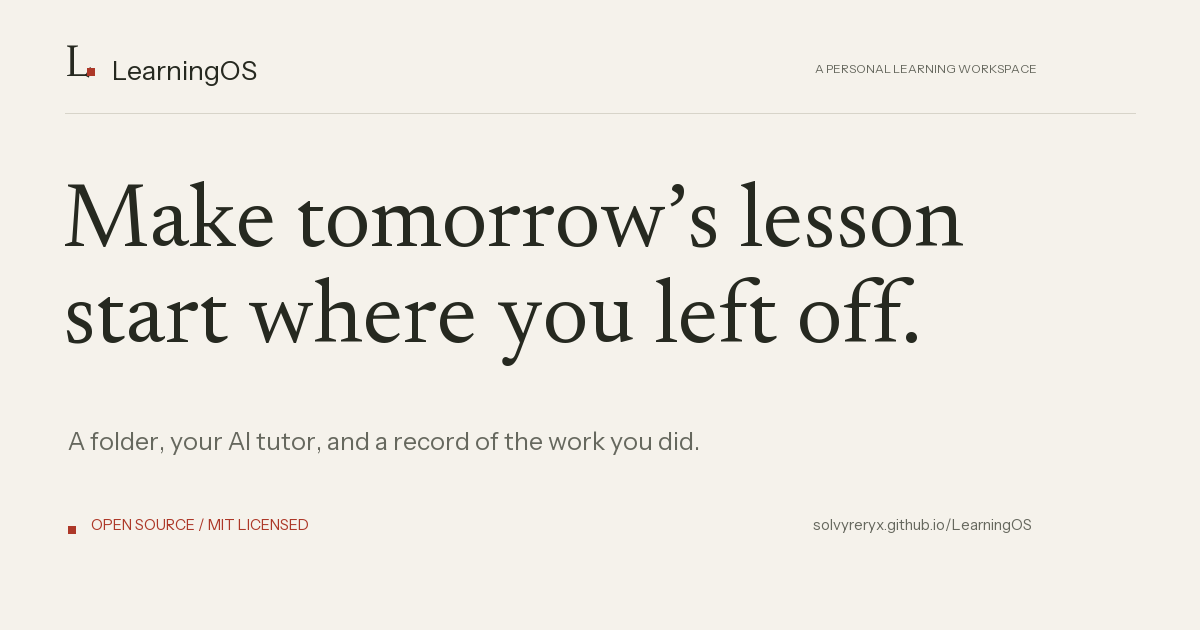
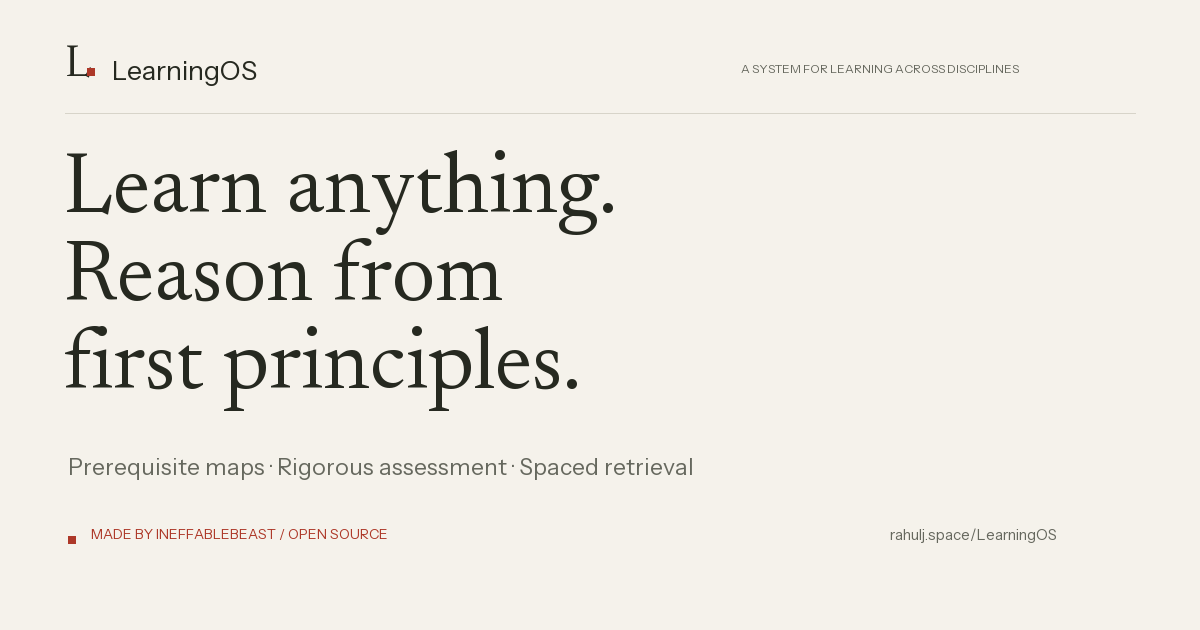
Reframe LearningOS around rigorous study across disciplines

diff --git a/01_AGENTS_AND_SKILLS/docs/site/index.html b/01_AGENTS_AND_SKILLS/docs/site/index.html
@@ -4,21 +4,21 @@
   <meta charset="utf-8">
   <meta name="viewport" content="width=device-width, initial-scale=1">
   <meta name="theme-color" content="#f5f2eb">
-  <title>LearningOS — Pick up where you left off.</title>
-  <meta name="description" content="A personal learning workspace for your AI tutor. Keep your attempts, hints and next steps in files you own. Open source and MIT licensed.">
+  <title>LearningOS | Learn anything. Reason from first principles.</title>
+  <meta name="description" content="A personal system for learning across disciplines. Prerequisite graphs, adaptive tutoring, evidence-based assessment, spaced retrieval and a Learning Atlas you own. Made by Ineffablebeast.">
   <link rel="canonical" href="https://www.rahulj.space/LearningOS/">
   <meta property="og:type" content="website">
-  <meta property="og:title" content="LearningOS — Pick up where you left off.">
-  <meta property="og:description" content="Give your AI tutor a place to remember the work you did. A folder, a conversation, and an exact next step.">
+  <meta property="og:title" content="LearningOS | Learn anything. Reason from first principles.">
+  <meta property="og:description" content="Study across disciplines with prerequisite maps, rigorous assessment, misconception diagnosis and spaced retrieval. An open source learning system by Ineffablebeast.">
   <meta property="og:url" content="https://www.rahulj.space/LearningOS/">
-  <meta property="og:image" content="https://www.rahulj.space/LearningOS/assets/social.png">
+  <meta property="og:image" content="https://www.rahulj.space/LearningOS/assets/social.png?v=2">
   <meta property="og:image:width" content="1200">
   <meta property="og:image:height" content="630">
   <meta name="twitter:card" content="summary_large_image">
   <link rel="icon" type="image/svg+xml" href="assets/favicon.svg">
   <link rel="preload" href="assets/Newsreader.ttf" as="font" type="font/ttf" crossorigin>
   <link rel="stylesheet" href="style.css?v=9c66bdf">
-  <script src="site.js" defer></script>
+  <script src="site.js?v=2" defer></script>
 </head>
 <body>
   <a class="skip-link" href="#main">Skip to content</a>
@@ -35,100 +35,107 @@
     <main id="main">
       <section class="hero" aria-labelledby="hero-title">
         <div class="hero-copy">
-          <p class="eyebrow"><span class="red-square" aria-hidden="true"></span>A personal learning workspace</p>
-          <h1 id="hero-title">Make tomorrow’s<br class="desktop-break"> lesson start where<br class="desktop-break"> you left off.</h1>
-          <p class="hero-intro">Your AI tutor reads the work you saved: the problem you solved, the hint you needed, the question to try next.</p>
+          <p class="eyebrow"><span class="red-square" aria-hidden="true"></span>A personal system for learning across disciplines</p>
+          <h1 id="hero-title">Learn anything.<br class="desktop-break"> Reason from<br class="desktop-break"> first principles.</h1>
+          <p class="hero-intro">Study mathematics, philosophy, physics or code with a tutor that maps prerequisites, challenges your reasoning and tests whether you can use an idea in unfamiliar territory.</p>
           <div class="hero-actions">
             <a class="button button-dark" href="#get-started">Get LearningOS <span aria-hidden="true">↗</span></a>
             <a class="text-link" href="guide.pdf">Read the 6-page guide <span aria-hidden="true">↗</span></a>
           </div>
-          <p class="requirements">Bring Python 3.11+ and an AI agent that can work with files.</p>
+          <p class="requirements">Open source. Your own files. Bring Python 3.11+ and a file-capable AI agent.</p>
         </div>
 
         <div class="specimen-wrap">
-          <div class="specimen-caption"><span>From one lesson to the next</span><span class="caption-line" aria-hidden="true"></span></div>
+          <div class="specimen-caption"><span>A closer look at understanding</span><span class="caption-line" aria-hidden="true"></span></div>
           <div class="notebook">
-            <div class="notebook-top"><span>LEARNING RECORD</span><span>001 / BIOLOGY</span></div>
+            <div class="notebook-top"><span>LEARNING RECORD</span><span>001 / MATHEMATICS</span></div>
             <div class="session-switch" role="group" aria-label="Choose an illustrative session">
               <button type="button" class="session-tab active" data-session="saved" aria-pressed="true">Last session</button>
               <button type="button" class="session-tab" data-session="next" aria-pressed="false">Next session <span aria-hidden="true">↗</span></button>
             </div>
             <div class="note-body" id="sample-record" aria-live="polite">
               <p class="note-date" id="note-label">WHERE WE STOPPED</p>
-              <h2 id="note-title">You solved it<br>with a hint.</h2>
-              <p class="note-topic">Mendelian inheritance</p>
+              <h2 id="note-title">Find the gap<br>in the reasoning.</h2>
+              <p class="note-topic">Fourier analysis / prerequisite check</p>
               <dl class="note-facts">
-                <div><dt>Attempt</dt><dd id="note-attempt">Solved the cross after a hint about dominant alleles.</dd></div>
-                <div><dt>Evidence</dt><dd id="note-evidence">Hinted success. Independent application still to check.</dd></div>
-                <div><dt>Next</dt><dd id="note-next">Explain the result, then try a different cross without help.</dd></div>
+                <div><dt>Attempt</dt><dd id="note-attempt">Applied the formula, but could not derive it from orthogonality.</dd></div>
+                <div><dt>Evidence</dt><dd id="note-evidence">Recall passed. Derivation failed. Transfer not yet tested.</dd></div>
+                <div><dt>Next</dt><dd id="note-next">Rebuild the derivation, then solve an unfamiliar case without hints.</dd></div>
               </dl>
-              <p class="margin-note" id="margin-note">The hint stays in the record.</p>
+              <p class="margin-note" id="margin-note">A right answer still needs a reason.</p>
             </div>
             <div class="notebook-bottom"><span class="save-dot" aria-hidden="true"></span><span id="note-footer">Saved for your next session</span><span aria-hidden="true">↳</span></div>
           </div>
-          <p class="example-label">An illustrative record, with made-up study content.</p>
+          <p class="example-label">Illustrative study record. No real learner data.</p>
         </div>
       </section>
 
       <div class="workspace-strip" aria-label="What LearningOS is made of">
-        <p><span class="strip-number">01</span><span>A folder <em>you own</em></span></p>
-        <p><span class="strip-number">02</span><span>A tutor <em>you talk to</em></span></p>
-        <p><span class="strip-number">03</span><span>A next step <em>you can find</em></span></p>
+        <p><span class="strip-number">01</span><span>Foundations <em>before shortcuts</em></span></p>
+        <p><span class="strip-number">02</span><span>Evidence <em>before confidence</em></span></p>
+        <p><span class="strip-number">03</span><span>Understanding <em>across disciplines</em></span></p>
       </div>
 
       <section class="method section-grid" id="how-it-works" aria-labelledby="method-title">
         <div class="section-intro">
-          <p class="eyebrow">A record of the work</p>
-          <h2 id="method-title">“I understand”<br>is a place to start.</h2>
-          <p>Then your tutor asks you to explain it in your own words and try a different problem. A few days later, you check what stuck.</p>
-          <p>LearningOS keeps those attempts separate from the help you needed, so your tutor has something concrete to work from.</p>
+          <p class="eyebrow">The learning method</p>
+          <h2 id="method-title">Knowledge you can<br>reconstruct and use.</h2>
+          <p>A polymath’s education needs breadth and a way to go deep. Follow a question into a new field, find the ideas it depends on, and work towards an explanation you can defend.</p>
+          <p>LearningOS gives your tutor a method for that work: diagnose, explain, reduce support, assess and revisit. What you can do unaided determines the next lesson.</p>
+          <p>Use it for a theorem, a code interview, a historical argument or an exam syllabus. Each subject keeps its own evidence, misconceptions and path forward.</p>
+          <a class="text-link" href="https://github.com/SolvyrEryx/LearningOS/blob/main/01_AGENTS_AND_SKILLS/docs/METHOD_AND_EVIDENCE.md">Read the methodology <span aria-hidden="true">↗</span></a>
         </div>
         <ol class="method-list">
-          <li><span class="step-number">01</span><div><h3>Start with what you can do.</h3><p>Your tutor checks a small piece first, then teaches the part you’re missing. A subject, a skill or a single question is enough.</p></div></li>
-          <li><span class="step-number">02</span><div><h3>Keep the useful details.</h3><p>Your tutor saves the question and your working, including the hint that helped or the mistake you repeated.</p></div></li>
-          <li><span class="step-number">03</span><div><h3>Return with a next step.</h3><p>Say <code>/save</code> before you stop. Next time, <code>/continue</code> brings back the handover and what’s due for review.</p></div></li>
+          <li><span class="step-number">01</span><div><h3>Prerequisite graphs &amp; first-principles study</h3><p>Build a concept catalogue and dependency graph from your syllabus or chosen goal. Your tutor probes the foundations, moves from concrete examples to formal reasoning, and fades worked examples as you become independent.</p></div></li>
+          <li><span class="step-number">02</span><div><h3>Assessment beyond a correct answer</h3><p>Examine explanation, application, recall, derivation, assumptions, transfer, method selection and execution. Your tutor diagnoses the first broken step, records hints, and tests a misconception again on a different task. Mastery requires repeated unaided evidence, including delayed retrieval.</p></div></li>
+          <li><span class="step-number">03</span><div><h3>Spaced retrieval &amp; unfamiliar problems</h3><p>Revisit concepts on a 1, 3, 7, 16 and 35-day ladder. Interleave topics so you practise selecting a method as well as executing it. Review priorities account for overdue retrieval, prerequisite gaps and recurring mistakes.</p></div></li>
+          <li><span class="step-number">04</span><div><h3>Source-grounded reasoning</h3><p>Index your notes, syllabi and textbooks. Trace claims to a page or line, preserve original documents, and separate source-backed explanations from general knowledge. Keep uncertain or disputed claims visible as open questions.</p></div></li>
+          <li><span class="step-number">05</span><div><h3>A Learning Atlas of your understanding</h3><p>Explore prerequisite maps, mastery overlays, misconceptions, revision queues and learning evidence in a local, offline report. Inspect the responses and judgments behind a concept’s status, then follow its sources and next actions.</p></div></li>
+          <li><span class="step-number">06</span><div><h3>Timed practice &amp; targeted retesting</h3><p>Prepare verified question banks, run timed mock or sectional practice, inspect error patterns and revisit unseen variants of failed questions. Reserve holdout questions for assessment. Historical attempts retain their question versions, while exam scores remain separate from concept mastery.</p></div></li>
         </ol>
       </section>
 
       <section class="start-section" id="get-started" aria-labelledby="start-title">
-        <div class="start-heading"><p class="eyebrow">Your first session</p><p class="small-label">OPEN SOURCE · MIT LICENSED</p></div>
+        <div class="start-heading"><p class="eyebrow">Begin an inquiry</p><p class="small-label">OPEN SOURCE · MIT LICENSED</p></div>
         <div class="start-grid">
           <div class="start-copy">
-            <h2 id="start-title">Give it something<br>you want to learn.</h2>
+            <h2 id="start-title">Choose a field.<br>Start with a question.</h2>
             <ol class="setup-list">
               <li><span>1.</span><p>Download and extract your own copy of LearningOS.</p></li>
               <li><span>2.</span><p>Open the folder in a file-capable AI agent, with Python 3.11+ installed.</p></li>
-              <li><span>3.</span><p>Paste this prompt. Change the subject. Answer the first question.</p></li>
+              <li><span>3.</span><p>Name what you want to understand. Ask for a diagnostic, then let the evidence set the depth.</p></li>
             </ol>
             <a class="button button-dark" href="https://github.com/SolvyrEryx/LearningOS/archive/refs/heads/main.zip">Download LearningOS <span aria-hidden="true">↓</span></a>
             <a class="source-link" href="https://github.com/SolvyrEryx/LearningOS">Or explore the repository <span aria-hidden="true">↗</span></a>
           </div>
           <div class="prompt-paper">
             <div class="prompt-heading"><span>PASTE INTO YOUR AI TUTOR</span><button id="copy-prompt" type="button">Copy prompt <span aria-hidden="true">↗</span></button></div>
-            <p id="starter-prompt">Read AGENTS.md and the five core files it points to. Run <code>python 01_AGENTS_AND_SKILLS/tools/learningos.py init-workspace</code>, then <code>python 01_AGENTS_AND_SKILLS/tools/learningos.py validate</code>. Preserve existing files and report any errors.<br><br>I want to learn <span class="subject-edit">Biology</span>. Help me choose a small first goal, check what I already know, and start teaching. Save real evidence as we go.</p>
-            <div class="prompt-footer"><span>Swap Biology for your subject.</span><span id="copy-status" role="status" aria-live="polite"></span></div>
+            <p id="starter-prompt">Read AGENTS.md and the five core files it points to. Run <code>python 01_AGENTS_AND_SKILLS/tools/learningos.py init-workspace</code>, then <code>python 01_AGENTS_AND_SKILLS/tools/learningos.py validate</code>. Preserve existing files and report any errors.<br><br>I want to understand <span class="subject-edit">Fourier analysis</span> from first principles. Map the prerequisites and test what I already know. Help me derive the ideas, challenge my assumptions, and test my reasoning on unfamiliar problems. Record hints and misconceptions, schedule retrieval, and save an exact next step.</p>
+            <div class="prompt-footer"><span>Replace Fourier analysis with your subject.</span><span id="copy-status" role="status" aria-live="polite"></span></div>
           </div>
         </div>
       </section>
 
       <section class="guide-band" aria-labelledby="guide-title">
         <a class="guide-icon" href="guide.pdf" tabindex="-1" aria-hidden="true"><span>LearningOS</span><span class="guide-cover-title">Start here.</span><span>THE FIELD GUIDE / 6 PAGES</span></a>
-        <div><p class="eyebrow">Keep this close</p><h2 id="guide-title">The first session, on paper.</h2><p>Setup, study, sources, saving your work, and what to do when something goes wrong.</p></div>
+        <div><p class="eyebrow">From curiosity to practice</p><h2 id="guide-title">Put the method to work.</h2><p>A six-page field guide to setting up your tutor, working from sources, recording evidence and returning for the next session.</p></div>
         <a class="text-link" href="guide.pdf">Open the guide <span class="link-meta">PDF · 6 pages</span><span aria-hidden="true">↗</span></a>
       </section>
 
       <section class="questions section-grid" aria-labelledby="questions-title">
-        <div class="section-intro"><p class="eyebrow">A few practical things</p><h2 id="questions-title">Before you begin.</h2></div>
+        <div class="section-intro"><p class="eyebrow">Working with the system</p><h2 id="questions-title">Build an education<br>you can inspect.</h2></div>
         <div class="faq-list">
-          <details><summary>What do I need installed?<span aria-hidden="true">+</span></summary><p>Python 3.11 or newer, and an AI agent that can read and write local files and run shell commands. The core Python toolkit uses the standard library. Your chosen agent may need its own account or subscription.</p></details>
-          <details><summary>Can I start without a syllabus?<span aria-hidden="true">+</span></summary><p>Yes. Pick a subject or skill and one thing you want to be able to do. Exams, deadlines and uploaded notes are optional. When you add sources, your tutor can teach from them and cite the page or line.</p></details>
+          <details><summary>Can I pursue several fields?<span aria-hidden="true">+</span></summary><p>Keep mathematics, philosophy, programming or any other subject in the same personal workspace. Each has its own concept catalogue, sources, misconceptions and mastery evidence. Your tutor saves the current subject before switching. A goal, question or skill is enough to begin; syllabi and exam dates are optional.</p></details>
+          <details><summary>How does the tutor adapt to me?<span aria-hidden="true">+</span></summary><p>Your record includes recurring mistakes, unresolved misconceptions, hint usage and approaches that helped or failed. The tutor reads that history to choose its explanation, check prerequisites and adjust support. You can inspect the evidence and the next action rather than relying on an unexplained score.</p></details>
+          <details><summary>What earns a claim of mastery?<span aria-hidden="true">+</span></summary><p>A checked learning cycle needs both explanation and application without hints or solution exposure to count as independent success. Provisional mastery requires repeated independent success, a non-familiar task, a delayed check and no unresolved linked misconception in the qualifying attempts. The mastery estimate is a transparent heuristic; its evidence and rules are inspectable.</p></details>
+          <details><summary>What makes the memory durable?<span aria-hidden="true">+</span></summary><p>Learning evidence lives in an append-only event history, with validated snapshots, checkpoints and an exact handover. Backups carry file hashes, and interrupted saves can be completed from matching records. Your tutor must record the work: say <code>/save</code> before stopping, <code>/continue</code> when returning, and <code>/atlas</code> to rebuild the offline report.</p></details>
+          <details><summary>What do I need to begin?<span aria-hidden="true">+</span></summary><p>Python 3.11 or newer, and an AI agent that can read and write local files and run shell commands. The core toolkit uses the standard library; PDF text extraction optionally uses pypdf. Your chosen agent may need its own account or subscription. Teaching and grading depend on that model and the sources you check against.</p></details>
           <details><summary>What stays on my computer?<span aria-hidden="true">+</span></summary><p>Your workspace holds your documents, attempts, learning state and handovers. The study toolkit makes no network calls. If your AI tutor uses a hosted model, content it reads into the conversation is processed by that provider. Local files do not make the model’s inference local.</p></details>
-          <details><summary>Where do lessons and progress live?<span aria-hidden="true">+</span></summary><p>Lessons happen in your AI agent’s chat. Your tutor saves evidence into the workspace and generates the Learning Atlas, an offline report you open in a browser. Ask <code>/atlas</code> to rebuild it, then reload the report. Ask <code>/save</code> before closing your chat.</p></details>
         </div>
       </section>
     </main>
 
-    <footer class="site-footer"><a class="wordmark" href="./"><span class="brand-mark" aria-hidden="true">L<span>▪</span></span>LearningOS</a><p>Made by <a href="https://github.com/SolvyrEryx">Solvyr Eryx</a>. Yours to use and change.</p><div><a href="https://github.com/SolvyrEryx/LearningOS">GitHub <span aria-hidden="true">↗</span></a><a href="https://github.com/SolvyrEryx/LearningOS/blob/main/LICENSE">MIT license <span aria-hidden="true">↗</span></a></div></footer>
+    <footer class="site-footer"><a class="wordmark" href="./"><span class="brand-mark" aria-hidden="true">L<span>▪</span></span>LearningOS</a><p>Made by <a href="https://github.com/SolvyrEryx">Ineffablebeast</a>. Yours to use and change.</p><div><a href="https://github.com/SolvyrEryx/LearningOS">GitHub <span aria-hidden="true">↗</span></a><a href="https://github.com/SolvyrEryx/LearningOS/blob/main/LICENSE">MIT license <span aria-hidden="true">↗</span></a></div></footer>
   </div>
 </body>
 </html>

diff --git a/01_AGENTS_AND_SKILLS/docs/site/site.js b/01_AGENTS_AND_SKILLS/docs/site/site.js
@@ -3,20 +3,20 @@
 const records = {
   saved: {
     label: 'WHERE WE STOPPED',
-    title: ['You solved it', 'with a hint.'],
-    attempt: 'Solved the cross after a hint about dominant alleles.',
-    evidence: 'Hinted success. Independent application still to check.',
-    next: 'Explain the result, then try a different cross without help.',
-    margin: 'The hint stays in the record.',
+    title: ['Find the gap', 'in the reasoning.'],
+    attempt: 'Applied the formula, but could not derive it from orthogonality.',
+    evidence: 'Recall passed. Derivation failed. Transfer not yet tested.',
+    next: 'Rebuild the derivation, then solve an unfamiliar case without hints.',
+    margin: 'A right answer still needs a reason.',
     footer: 'Saved for your next session'
   },
   next: {
     label: 'WHERE WE PICK UP',
-    title: ['Before we go on,', 'try it from memory.'],
-    attempt: 'Explain how you chose the alleles in the last cross.',
-    evidence: 'A new, unaided attempt. Your tutor checks the reasoning.',
-    next: 'Try a different cross, then return for a delayed check.',
-    margin: 'A first question, ready when you are.',
+    title: ['Rebuild the idea', 'from its foundations.'],
+    attempt: 'Check orthogonality before returning to the Fourier derivation.',
+    evidence: 'Record explanation and application separately, with all hints visible.',
+    next: 'Test an unfamiliar case, then schedule delayed retrieval.',
+    margin: 'Return to the first broken step.',
     footer: 'Read from your saved handover'
   }
 };
